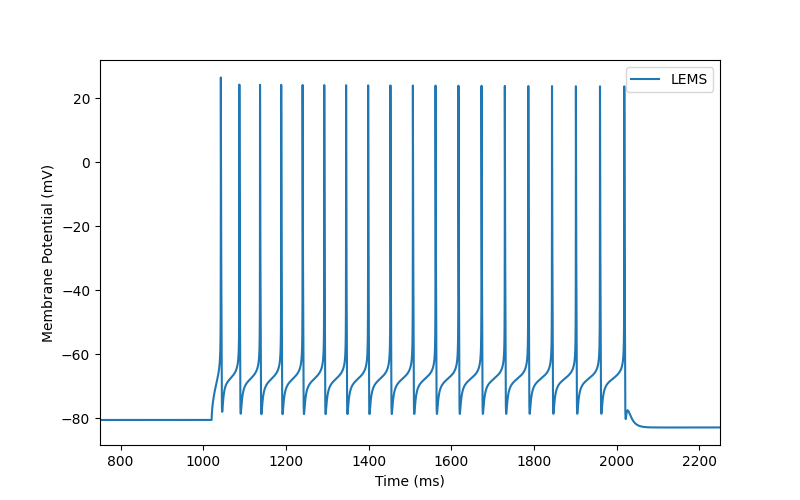
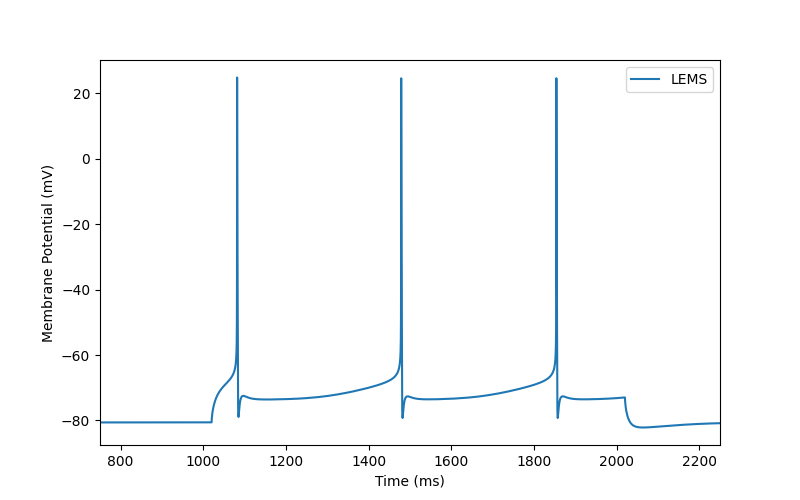
modified sweep and updated tests and figs for 472450023

diff --git a/CellTypesDatabase/data/data_helper.py b/CellTypesDatabase/data/data_helper.py
@@ -32,8 +32,8 @@ DATASET_TARGET_SWEEPS[477127614] = [22, 25, 27, 38, 30, 32, 35]
 DATASET_TARGET_SWEEPS[464198958] = [20, 24, 36, 28, 30, 32, 34]
 # Perisomatic biophys model: http://celltypes.brain-map.org/neuronal_model/download/472450023
 MODEL_IDS[464198958] = [472450023, 497233223]
-TEST_SWEEP[464198958] = 29
-TEST_CURRENTS[472450023] = 70
+TEST_SWEEP[464198958] = 28
+TEST_CURRENTS[472450023] = 50
 
 #  Layer 5, spiny https://celltypes.brain-map.org/mouse/experiment/electrophysiology/485574832
 DATASET_TARGET_SWEEPS[485574832] = [59, 58]
